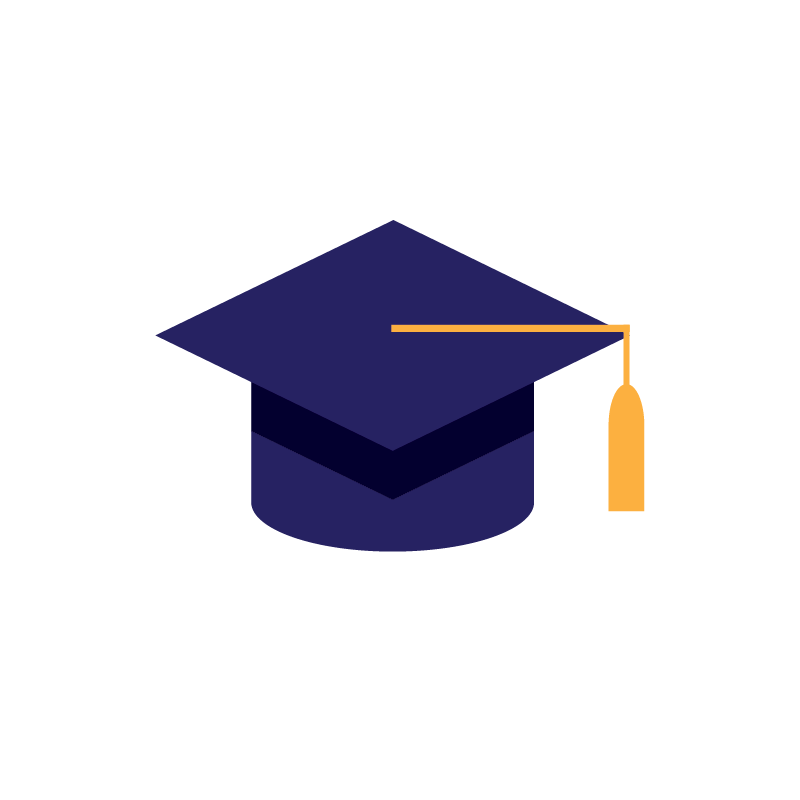
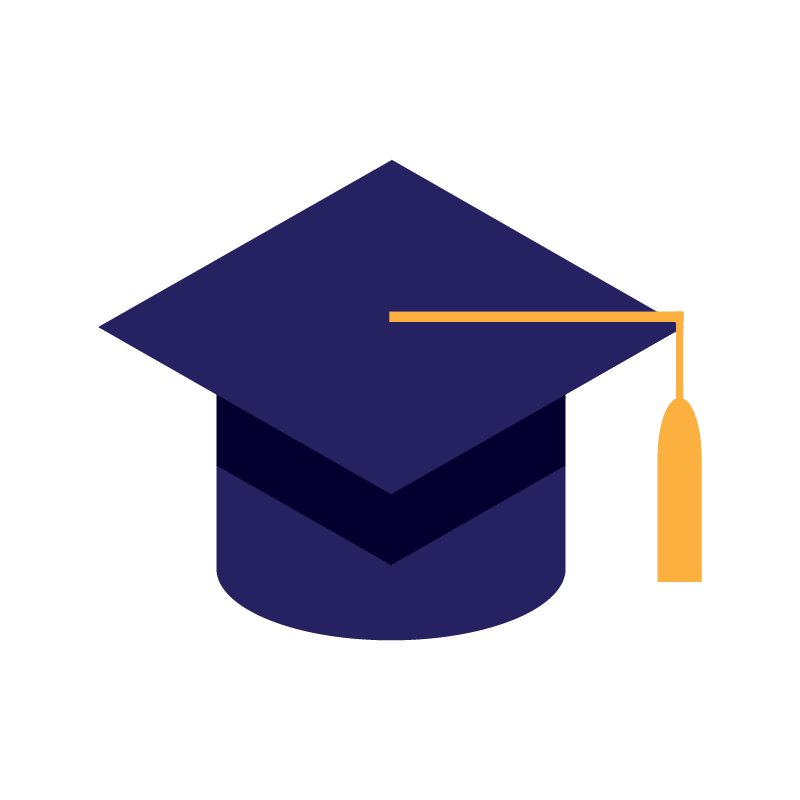
Changes to formatting, gradcap loading

Changed region(s): [[0.125, 0.1875, 0.875, 0.8125]]

diff --git a/pages/css/standard.css b/pages/css/standard.css
@@ -143,7 +143,6 @@
 }
 
 .my-spinner{
-  background-image: url("/static/spinny-base.png");
   background-size: cover; 
   background-position: absolute;
   width: 200px; 
@@ -151,13 +150,13 @@
 }
 
 .my-loader {
-  background-image: url("/static/spinny-fan.png");
+  background-image: url("/static/gradcap-dark.png");
   background-size: cover; 
   background-position: absolute;
   width: 200px;
   height: 200px;
-  -webkit-animation: spin 1s linear infinite; /* Safari */
-  animation: spin 1s linear infinite;
+  -webkit-animation: spin 2s linear infinite; /* Safari */
+  animation: spin 2s linear infinite;
 }
 
 .classof-card a:hover{
@@ -166,12 +165,21 @@
 
 /* Safari */
 @-webkit-keyframes spin {
-  0% { -webkit-transform: rotate(0deg); }
-  100% { -webkit-transform: rotate(360deg); }
+  0% { -webkit-transform: translateY(0px) rotate(0deg);
+     }
+  50% {-webkit-transform: translateY(-300px) rotate(360deg) ; 
+  }
+  100% {-webkit-transform: translateY(0) rotate(720deg) ; 
+  }
 }
 
 @keyframes spin {
-  0% { transform: rotate(0deg); }
-  100% { transform: rotate(360deg); }
+  0% { transform:  translateY(0px) rotate(0deg);
+  }
+  50%{
+       transform:  translateY(-300px) rotate(360deg) ;
+  }
+  100% { transform: translateY(0px) rotate(720deg) ;
+  }
 }
 

diff --git a/pages/components/Loading.js b/pages/components/Loading.js
@@ -20,7 +20,7 @@ class Loading extends Component{
     const titleStyle= {
       textAlign: 'center', 
       minHeight: "100vh", 
-      backgroundImage: "linear-gradient( rgb(0, 0, 0), rgb(12, 26, 66)) " , 
+      backgroundImage: "linear-gradient(rgb(8, 17, 44), rgba(16, 34, 88))  " , 
       backgroundAttachment: "fixed",     
       backgroundSize: "cover", 
       color: "rgba(255, 255, 255, 0.9)"
@@ -29,19 +29,19 @@ class Loading extends Component{
     var quote = ""
     var random = Math.random()
     if(random < 0.2){
-      quote = "You had me at Hello World..."
+      quote = "Social Distancing from Finals..."
     }
     else if (random < 0.4){
-      quote = "Chillin at the Poconos..."
+      quote = "Busy Procrastinating..."
     }
     else if (random < 0.6){
-      quote = "Practicing Elevator Pitch..."
+      quote = "Reselling Textbooks..."
     }
     else if (random < 0.8){
-      quote = "Mining Bitcoin..."
+      quote = "Getting Some Sleep (Finally)..."
     }
     else{
-      quote = "Starting Gradient Descent..."
+      quote = "Attending Zoom Graduation..."
     }
     return(
       <div className= "layout" style= {titleStyle}>

diff --git a/pages/app.js b/pages/app.js
@@ -18,14 +18,14 @@ class App extends Component{
         color: "rgba(168, 20, 37, 0.7)", 
       }
       const spanStyle= {
-        paddingTop: "25vh",
+        paddingTop: "23vh",
         minHeight: "80vh",
       }
 
       const titleStyle= {
         textAlign: 'center', 
         minHeight: "100vh", 
-        backgroundImage: "linear-gradient( rgb(0, 0, 0), rgb(12, 26, 66)) "      
+        backgroundImage: "linear-gradient(rgb(8, 17, 44), rgba(16, 34, 88))  "      
       }
 
         return (
@@ -34,7 +34,7 @@ class App extends Component{
               
               <div style= {spanStyle}>
                 <div style={{width: "30vw", margin:"0 auto"}}>
-                <img src="/spinny-hat.png" style={{width: "300px", zIndex: "-1"}}></img>
+                <img src="/gradcap-dark.png" style={{width: "300px", zIndex: "-1"}}></img>
               </div> 
               </div>
               <div style={{top: "60vh", position: "absolute", width:"100vw"}}>

diff --git a/pages/components/Header.js b/pages/components/Header.js
@@ -90,7 +90,7 @@ class Header extends Component{
       return(
         <div style= {headerStyle}>
         <Navbar light= {this.props.light} dark= {!this.props.light} expand="md" style= {{paddingLeft: "3%", paddingRight: "3%"}}>
-          <NavbarBrand href="/"><img src="/spinny-hat.png" style={{width:"100px"}}></img></NavbarBrand>
+          <NavbarBrand href="/"><img src="/gradcap-dark.png" style={{width:"100px"}}></img></NavbarBrand>
           <NavbarToggler onClick={this.toggle} />
           <Collapse isOpen={this.state.isOpen} navbar>
             <Nav className="ml-auto" navbar>

diff --git a/pages/class-users.js b/pages/class-users.js
@@ -212,7 +212,7 @@ class ClassUsers extends Component{
         const titleStyle= {
             textAlign: 'center', 
             minHeight: "100vh", 
-            backgroundImage: "linear-gradient( rgb(0, 0, 0), rgb(12, 26, 66)) "  , 
+            backgroundImage: "linear-gradient(rgb(8, 17, 44), rgba(16, 34, 88))  "  , 
             backgroundAttachment: "fixed",     
             backgroundSize: "cover",
             color: "rgba(255, 255, 255, 0.9)",

diff --git a/pages/view-userpage.js b/pages/view-userpage.js
@@ -292,7 +292,7 @@ class ViewUserPage extends Component{
         const titleStyle= {
             textAlign: 'center', 
             minHeight: "100vh", 
-            backgroundImage: "linear-gradient( rgb(0, 0, 0), rgb(12, 26, 66)) " , 
+            backgroundImage: "linear-gradient(rgb(8, 17, 44), rgba(16, 34, 88))  " , 
             backgroundAttachment: "fixed",     
             backgroundSize: "cover",
             color: "rgba(255, 255, 255, 0.9)"

diff --git a/pages/register.js b/pages/register.js
@@ -154,7 +154,7 @@ class Register extends Component {
         const titleStyle= {
             textAlign: 'center', 
             minHeight: "100vh", 
-            backgroundImage: "linear-gradient( rgb(0, 0, 0), rgb(12, 26, 66)) " , 
+            backgroundImage: "linear-gradient(rgb(8, 17, 44), rgba(16, 34, 88))  " , 
             color: "rgba(255, 255, 255, 0.9)",
             backgroundAttachment: "fixed",     
             backgroundSize: "cover"

diff --git a/pages/dashboard/settings-panel.js b/pages/dashboard/settings-panel.js
@@ -155,7 +155,7 @@ class SettingsPanel extends Component {
     }
 
     return (
-        <div className= "dashboard-container" style= {{backgroundImage: "linear-gradient( rgb(0, 0, 0), rgb(12, 26, 66)) " , 
+        <div className= "dashboard-container" style= {{backgroundImage: "linear-gradient(rgb(8, 17, 44), rgba(16, 34, 88))  " , 
         paddingTop: "5vh"}}>
         <Row>
           <Col md={2}>

diff --git a/pages/login.js b/pages/login.js
@@ -72,7 +72,7 @@ class Login extends Component {
     const titleStyle= {
       textAlign: 'center', 
       minHeight: "100vh", 
-      backgroundImage: "linear-gradient( rgb(0, 0, 0), rgb(12, 26, 66)) " , 
+      backgroundImage: "linear-gradient(rgb(8, 17, 44), rgba(16, 34, 88))  " , 
       color: "rgba(255, 255, 255, 0.9)",
       backgroundAttachment: "fixed",     
       backgroundSize: "cover"

diff --git a/pages/about.js b/pages/about.js
@@ -10,7 +10,7 @@ class About extends Component {
     const titleStyle= {
       textAlign: 'center', 
       minHeight: "100vh", 
-      backgroundImage: "linear-gradient( rgb(0, 0, 0), rgb(12, 26, 66)) " , 
+      backgroundImage: "linear-gradient(rgb(8, 17, 44), rgba(16, 34, 88)) " , 
       color: "rgba(255, 255, 255, 0.9)",
       backgroundAttachment: "fixed",     
       backgroundSize: "cover"

diff --git a/pages/dashboard/profile-panel.js b/pages/dashboard/profile-panel.js
@@ -243,7 +243,7 @@ class ProfilePanel extends Component {
     </div>)
 
     return (
-      <div className= "dashboard-container" style= {{backgroundImage: "linear-gradient( rgb(0, 0, 0), rgb(12, 26, 66)) " , 
+      <div className= "dashboard-container" style= {{backgroundImage: "linear-gradient(rgb(8, 17, 44), rgba(16, 34, 88))  " , 
       paddingTop: "5vh"}}>
       <Row>
         <Col md={2}>

diff --git a/pages/dashboard/welcome-panel.js b/pages/dashboard/welcome-panel.js
@@ -13,7 +13,7 @@ class WelcomePanel extends Component {
   render() {
     return (
         <div className= "dashboard-container" 
-        style= {{backgroundImage: "linear-gradient( rgb(0, 0, 0), rgb(12, 26, 66)) " , 
+        style= {{backgroundImage: "linear-gradient(rgb(8, 17, 44), rgba(16, 34, 88))  " , 
                  paddingTop: "5vh"}}>
         <Row>
           <Col md={2}>
